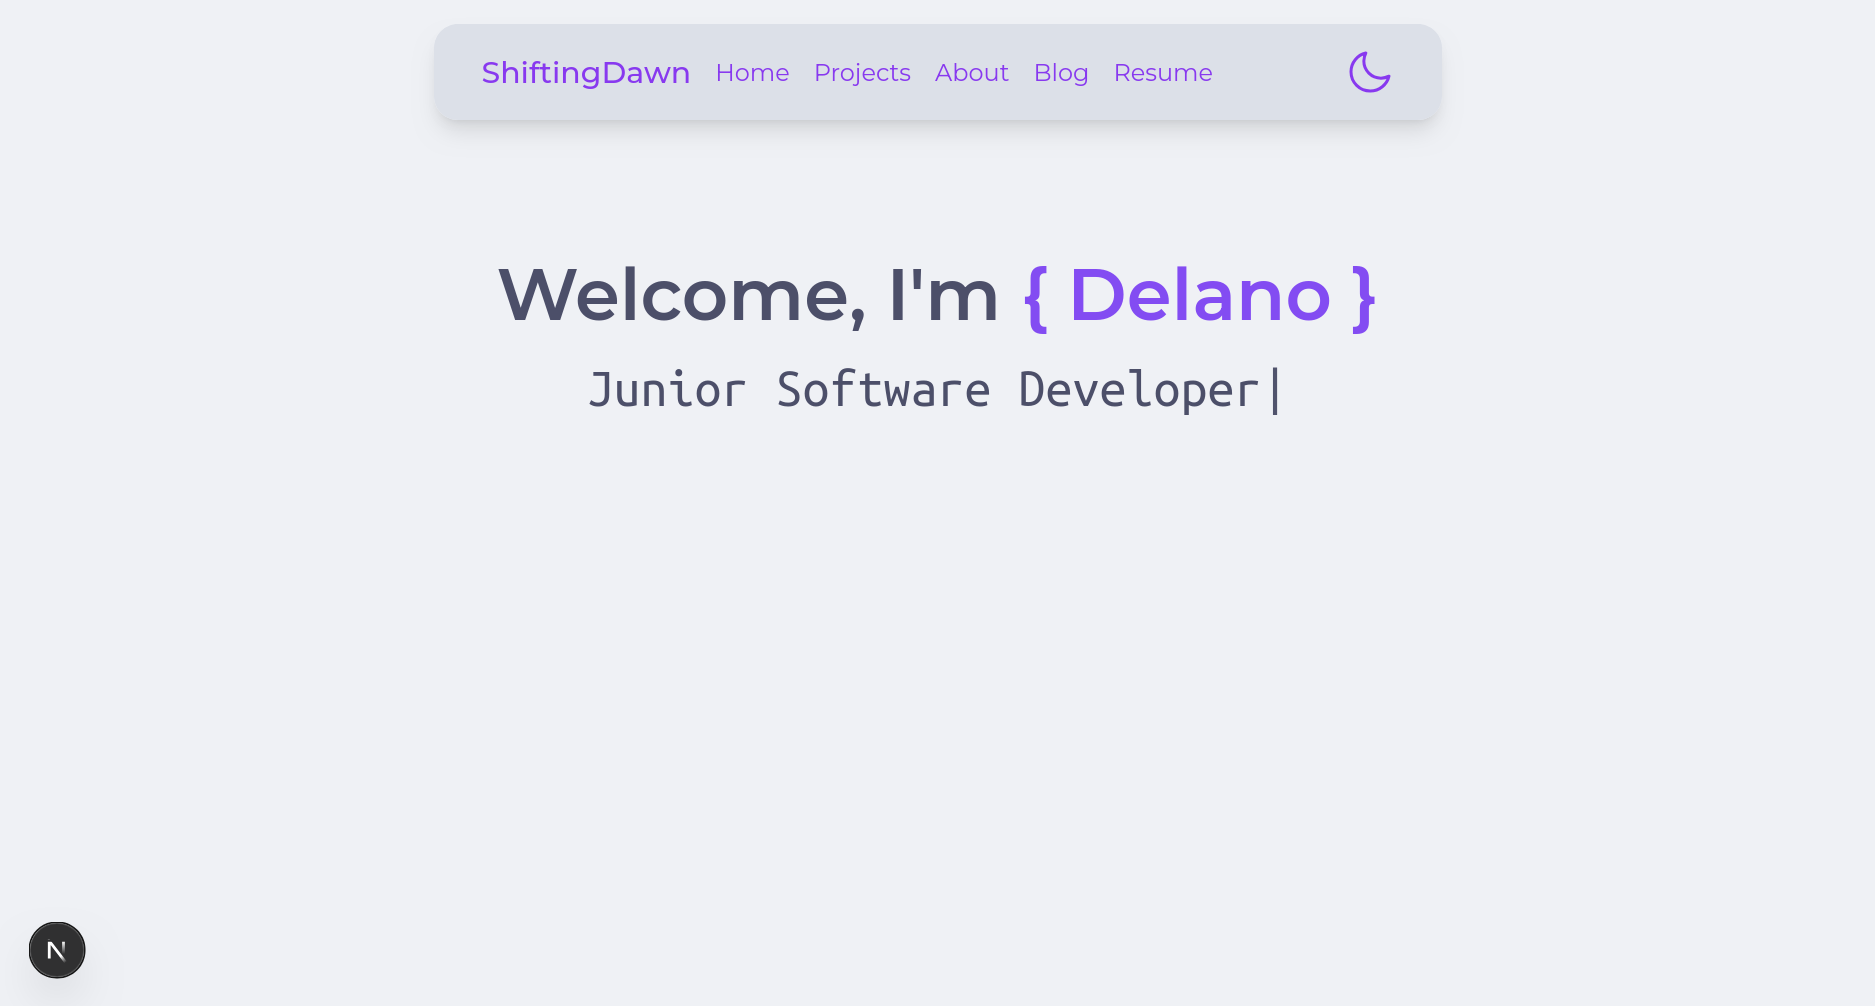
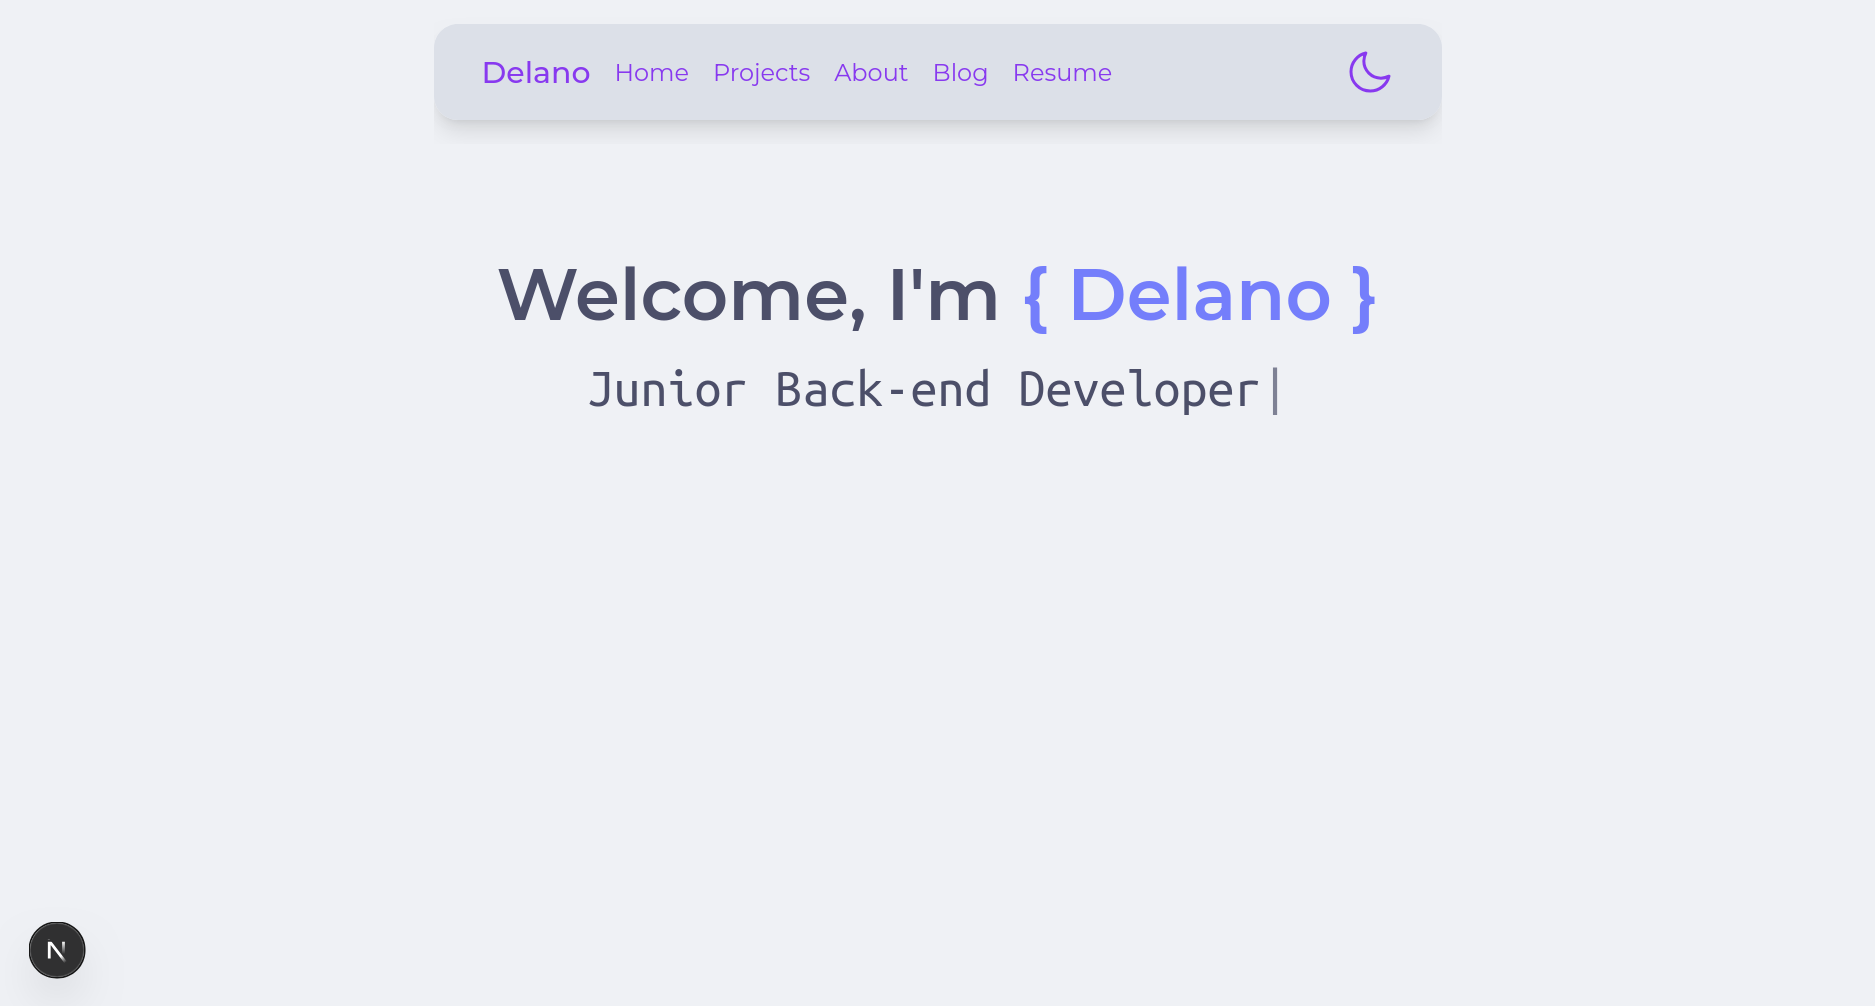
Fix mobile layout and styling

Changed region(s): [[0.5259, 0.2465, 0.7424, 0.339], [0.2475, 0.0616, 0.6496, 0.0924], [0.4021, 0.3698, 0.5259, 0.4006]]

diff --git a/app/about/page.tsx b/app/about/page.tsx
@@ -1,6 +1,6 @@
 import {Page} from "$c/Page";
 import {Activity} from "@/app/about/Activity";
-import {PropsWithChildren, ReactNode} from "react";
+import {ReactNode} from "react";
 import {HugeiconsIcon} from "@hugeicons/react";
 import {OfficeIcon} from "@hugeicons/core-free-icons";
 
@@ -9,7 +9,7 @@ export default async function PageAbout() {
     return (
         <Page name={"About me"}>
             <InfoChip icon={<HugeiconsIcon icon={OfficeIcon}/>}
-                      text={"Looking for opportunities in Utrecht (the Netherlands)"}/>
+                      text={"Looking for opportunities in and around Nieuwegein (the Netherlands)"}/>
             <h2 className={"my-8"}>Hello! I&apos;m Delano van den Ham, a full-stack developer from the Netherlands</h2>
             <Activity/>
             <div className={"mt-8 flex flex-col gap-4"}>
@@ -18,10 +18,10 @@ export default async function PageAbout() {
                     I spend most of my time working with <MarkedText>React</MarkedText>, <MarkedText>Next.js</MarkedText>, <MarkedText>TypeScript</MarkedText>, and <MarkedText>TailwindCSS</MarkedText>, turning ideas into fast, polished web applications.
                 </p>
                 <p>
-                    I&apos;ve also worked extensively with <MarkedText>SQL</MarkedText> databases, particularly <MarkedText>PostgreSQL</MarkedText> and <MarkedText>MySQL</MarkedText>, and I enjoy designing reliable backends just as much as crafting great user interfaces.
+                    I&apos;ve also worked extensively with <MarkedText>SQL</MarkedText>&nbsp;databases, particularly <MarkedText>PostgreSQL</MarkedText>&nbsp;and <MarkedText>MySQL</MarkedText>, and I enjoy designing reliable backends just as much as crafting great user interfaces.
                 </p>
                 <p>
-                    <MarkedText>Java</MarkedText> is where I have the deepest roots. With over 10 years of experience, it&apos;s the language that taught me how to build software that lasts, and I still take pride in writing clean, maintainable code.
+                    <MarkedText>Java</MarkedText>&nbsp;is where I have the deepest roots. With over 10 years of experience, it&apos;s the language that taught me how to build software that lasts, and I still take pride in writing clean, maintainable code.
                 </p>
                 <p>
                     I&apos;m always looking for opportunities to learn, improve, and create software that makes a real difference.
@@ -34,7 +34,7 @@ export default async function PageAbout() {
 function InfoChip({icon, text}: Readonly<{ icon: ReactNode, text: string }>) {
     return (
         <div
-            className={"bg-ctp-surface0 px-4 py-2 rounded-lg flex items-center gap-2 hover:bg-ctp-lavender hover:text-ctp-base transition-colors"}>
+            className={"bg-ctp-surface0 px-4 py-2 rounded-lg flex items-center gap-2 hover:bg-accent hover:text-ctp-base transition-colors"}>
             {icon}
             {text}
         </div>
@@ -42,5 +42,5 @@ function InfoChip({icon, text}: Readonly<{ icon: ReactNode, text: string }>) {
 }
 
 function MarkedText({children}: FCP) {
-    return <span className={"text-ctp-lavender font-bold"}>{children}</span>;
+    return <span className={"text-accent font-bold"}>{children}</span>;
 }

diff --git a/app/NavBar.tsx b/app/NavBar.tsx
@@ -3,8 +3,8 @@ import {ThemeToggle} from "@/app/ThemeToggle";
 
 export function NavBar() {
     return (
-        <header className={"w-full sticky top-0 py-4 max-w-2xl mx-auto"}>
-            <div className={"flex w-full justify-between px-8 bg-ctp-crust shadow-lg rounded-2xl"}>
+        <header className={"w-full sticky top-0 md:py-4 md:max-w-2xl mx-auto overflow-hidden"}>
+            <div className={"flex w-full justify-between px-8 bg-ctp-crust shadow-lg md:rounded-2xl overflow-auto"}>
                 <nav className={"h-16 flex items-center gap-4"}>
                     <HomeLink/>
                     <NavLink href={"/"}>Home</NavLink>
@@ -13,10 +13,9 @@ export function NavBar() {
                     <NavLink href={"/blog"}>Blog</NavLink>
                     <NavLink href={"/resume"}>Resume</NavLink>
                 </nav>
-                <div className={"flex items-center justify-center h-16"}>
+                <div className={"flex items-center justify-center ml-8 h-16"}>
                     <ThemeToggle/>
                 </div>
-
             </div>
         </header>
     );
@@ -25,7 +24,7 @@ export function NavBar() {
 function HomeLink() {
     return (
         <Link href={"/"} className={"text-xl font-medium"}>
-            ShiftingDawn
+            Delano
         </Link>
     );
 }

diff --git a/app/globals.css b/app/globals.css
@@ -1,17 +1,22 @@
 @import "tailwindcss";
 @import "@catppuccin/tailwindcss/mocha.css";
 
+@theme {
+    --color-accent: var(--color-ctp-lavender);
+    --color-accent2: var(--color-ctp-mauve);
+}
+
 body {
     background: var(--color-ctp-base);
     color: var(--color-ctp-text);
 }
 
 a, a:visited {
-    color: var(--color-ctp-lavender);
+    color: var(--color-accent);
 }
 
 header a, header a:visited {
-    color: var(--color-ctp-mauve);
+    color: var(--color-accent2);
 }
 
 h1 {
@@ -25,9 +30,9 @@ h2 {
 
 @keyframes pulsing-text {
     from {
-        color: var(--color-ctp-lavender);
+        color: var(--color-accent);
     }
     to {
-        color: var(--color-ctp-mauve);
+        color: var(--color-accent2);
     }
 }

diff --git a/app/projects/page.tsx b/app/projects/page.tsx
@@ -55,7 +55,7 @@ function ProjectCard({slug, name, href, repo, tech}: Readonly<ProjectCardProps>)
                        className={"rounded-xl shadow-md"}/>
             </a>
             <div className={"pt-2 flex items-center justify-between"}>
-                <div className={"flex items-center gap-2 text-ctp-lavender"}>
+                <div className={"flex items-center gap-2 text-accent"}>
                     {tech.typescript && (
                         <Tooltip text={"TypeScript"} id={`${slug}_typescript`}>
                             <TechIconTypeScript/>

diff --git a/app/about/activity.css b/app/about/activity.css
@@ -3,10 +3,10 @@
     max-width: calc(100vw - 20px);
     padding: 0.2em 0.5em;
     border-radius: 0.25em;
-    background-color: var(--color-ctp-lavender);
+    background-color: var(--color-accent);
     color: var(--color-ctp-base);
 }
 
 .react-activity-calendar__tooltip-arrow {
-    fill: var(--color-ctp-lavender);
+    fill: var(--color-accent);
 }

diff --git a/app/about/Activity.tsx b/app/about/Activity.tsx
@@ -35,7 +35,7 @@ export function Activity() {
             theme={{
                 dark: [
                     "var(--color-ctp-surface0)",
-                    "var(--color-ctp-mauve)",
+                    "var(--color-accent)",
                 ],
             }}
             tooltips={{
